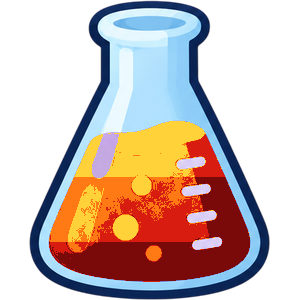
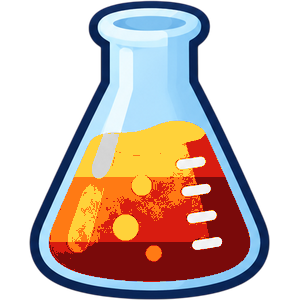
Ink dye: near-black liquid; neutral shine on all recolored dyes
Claude-Session: https://claude.ai/code/session_016T1x9t3fXLSJ9Wj3N5qPHM

diff --git a/scripts/make_bottles2.py b/scripts/make_bottles2.py
@@ -34,7 +34,7 @@ RARITY_SHAPE = {'common': 'round', 'uncommon': 'round', 'rare': 'flask', 'epic':
 
 # Four cel tones per dye, dark to light, plus what floats in it.
 TONES = {
-    'pastel': ['#c9a0e0', '#f3b6d6', '#ffd9a8', '#fff3c4'], 'mono': ['#3a3a42', '#7c7c88', '#c4c4cc', '#f4f4f4'],
+    'pastel': ['#c9a0e0', '#f3b6d6', '#ffd9a8', '#fff3c4'], 'mono': ['#0a0a0e', '#1c1c24', '#34343e', '#5a5a66'],
     'retro': ['#0f380f', '#306230', '#8bac0f', '#c4d93a'], 'slime': ['#1d6a14', '#3fb422', '#7fe03a', '#d2ff86'],
     'sakura': ['#a8346a', '#e0679a', '#f7a8c6', '#ffe0ee'], 'ocean': ['#0c1c5a', '#1e48a6', '#3b86d6', '#9fdcff'],
     'ember': ['#7a0a0a', '#d81c10', '#ff7a14', '#ffd23a'], 'moonlit': ['#1a1e5a', '#3a44a8', '#6e74d6', '#c8ccff'],
@@ -94,6 +94,12 @@ def dye(skin, shape):
         add = [(wisp, '#a46bff')]
     for m, c in add:
         col = col * (1 - m[..., None]) + hexc(c) * m[..., None]
+    # The pack's shine on the liquid keeps a hint of its original color: make those highlights neutral.
+    ys2, xs2 = np.nonzero(liq)
+    box = np.zeros_like(liq); box[ys2.min():ys2.max() + 1, xs2.min():xs2.max() + 1] = 1
+    shine = ((h >= h0 - 15) & (h <= h1 + 15) & (s > 0.08) & (v > 0.6) & (liq == 0) & (box > 0) & (a[..., 3] > 200)).astype(np.float32)
+    grey = a[..., :3].mean(-1, keepdims=True)
+    a[..., :3] = a[..., :3] * (1 - shine[..., None]) + np.clip(grey * 1.08, 0, 255) * shine[..., None]
     rgb = a[..., :3] * (1 - liq[..., None]) + col * liq[..., None]
     return Image.fromarray(np.dstack([rgb, a[..., 3]]).astype(np.uint8), 'RGBA')
 
